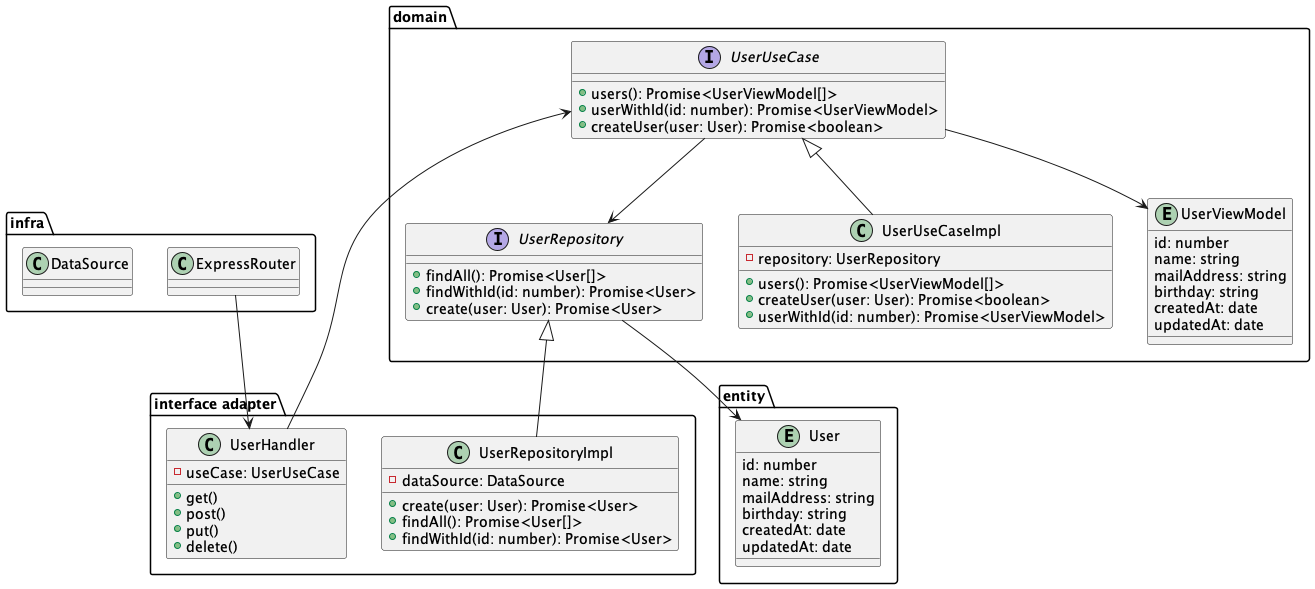
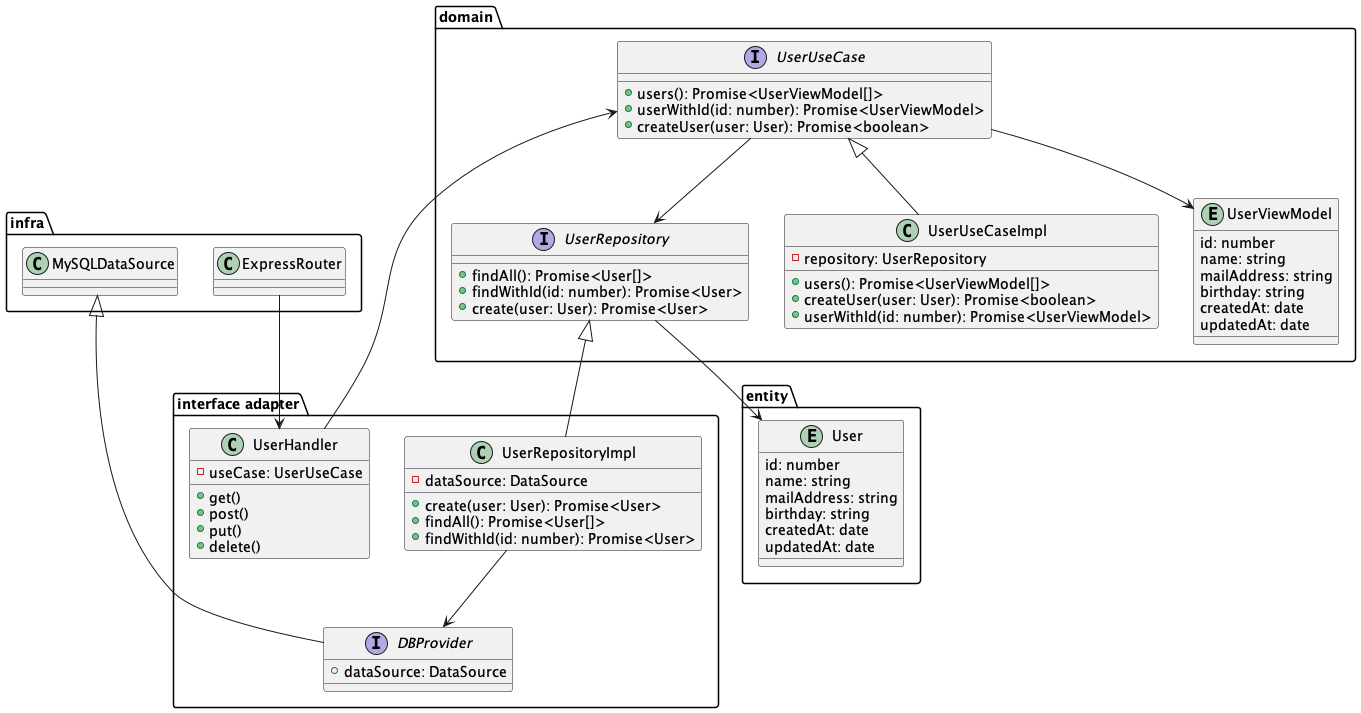
update markdown and refactoring

diff --git a/src/adapter/gateway/user_repository.ts b/src/adapter/gateway/user_repository.ts
@@ -1,22 +1,23 @@
 import { UserRepository } from '../../domain/repository/user_repository'
 import { User } from '../../entity/user'
 import { DataSource } from 'typeorm'
+import { DBProvider } from '../provider/db_provider'
 
 export class UserRepositoryImpl implements UserRepository {
-  private readonly dataSource: DataSource
-  constructor(dataSource: DataSource) {
-    this.dataSource = dataSource
+  private readonly db: DBProvider
+  constructor(db: DBProvider) {
+    this.db = db
   }
 
   async create(user: User): Promise<User> {
-    return this.dataSource.getRepository(User).create(user)
+    return this.db.datasource().getRepository(User).create(user)
   }
 
   async findAll(): Promise<User[]> {
-    return await this.dataSource.getRepository(User).find()
+    return await this.db.datasource().getRepository(User).find()
   }
 
   async findWithId(id: number): Promise<User> {
-    return await this.dataSource.getRepository(User).findOneBy({ id: id })
+    return await this.db.datasource().getRepository(User).findOneBy({ id: id })
   }
 }

diff --git a/src/infra/database/mysql_datasource.ts b/src/infra/database/mysql_datasource.ts
@@ -1,5 +1,28 @@
 import 'reflect-metadata'
 import { DataSource } from 'typeorm'
-import ormConfig from './ormconfig'
+import { DBProvider } from '../../adapter/provider/db_provider'
+import * as dotenv from 'dotenv'
+import { MysqlConnectionOptions } from 'typeorm/driver/mysql/MysqlConnectionOptions'
 
-export const MySQLDataSource = new DataSource(ormConfig)
+export class MySQLDataSource implements DBProvider {
+  datasource(): DataSource {
+    dotenv.config()
+
+    const ormConfig: MysqlConnectionOptions = {
+      type: 'mysql',
+      host: process.env.DB_HOST,
+      port: parseInt(process.env.DB_PORT, 10),
+      username: process.env.DB_USERNAME,
+      password: process.env.DB_PASSWORD,
+      database: process.env.DB_DATABASE,
+      synchronize: true,
+      logging: false,
+      entities: [__dirname + '/../../entity/**/*.ts'],
+      migrationsTableName: 'migrations',
+      migrations: [__dirname + '/migrations/*.ts'],
+      subscribers: [],
+    }
+    console.log(ormConfig)
+    return new DataSource(ormConfig)
+  }
+}

diff --git a/src/main.ts b/src/main.ts
@@ -2,7 +2,9 @@ import router from './infra/router/router'
 import bodyParser from 'body-parser'
 import { MySQLDataSource } from './infra/database/mysql_datasource'
 ;(async () => {
-  await MySQLDataSource.initialize()
+  const db = new MySQLDataSource()
+  await db.datasource().initialize()
+
   router.use(bodyParser.urlencoded({ extended: false }))
   router.use(bodyParser.json())
   router.listen(4000, () => console.log('Running on server'))

diff --git a/src/infra/router/router.ts b/src/infra/router/router.ts
@@ -6,7 +6,7 @@ import { MySQLDataSource } from '../database/mysql_datasource'
 const router = express()
 router.use(express.json())
 
-const userHandler = UserHandler(new UserUseCaseImpl(new UserRepositoryImpl(MySQLDataSource)))
+const userHandler = UserHandler(new UserUseCaseImpl(new UserRepositoryImpl(new MySQLDataSource())))
 
 router.use('/user', userHandler)
 

diff --git a/src/domain/usecase/user_usecase.ts b/src/domain/usecase/user_usecase.ts
@@ -1,4 +1,3 @@
-import { User } from '../../entity/user'
 import { UserViewModel } from '../model/user_view_model'
 
 export interface UserUseCase {

diff --git a/src/adapter/provider/db_provider.ts b/src/adapter/provider/db_provider.ts
@@ -1,0 +1,5 @@
+import { DataSource } from 'typeorm'
+
+export interface DBProvider {
+  datasource(): DataSource
+}

diff --git a/README.md b/README.md
@@ -105,6 +105,8 @@ https://qiita.com/baby-degu/items/d058a62f145235a0f007
 │   │   │   └── user_repository.ts
 │   │   └── handler # HTTPリクエストを受け、レスポンスを返す 
 │   │       └── user_handler.ts
+│   │   └── provider # DBアクセスのインターフェース定義を行う 
+│   │       └── db_provider.ts
 │   ├── domain # Domain層
 │   │   ├── interactor # usecaseの実装を行う
 │   │   │   └── user_usecase.ts
@@ -120,7 +122,6 @@ https://qiita.com/baby-degu/items/d058a62f145235a0f007
 │   ├── infra # Infrastructure層
 │   │   ├── database # Database接続の実装を行う
 │   │   │   ├── mysql_datasource.ts
-│   │   │   └── ormconfig.ts
 │   │   └── router # Expressの実装を行う
 │   │       └── router.ts
 │   └── main.ts # メインファイル Expressの実行を行う
